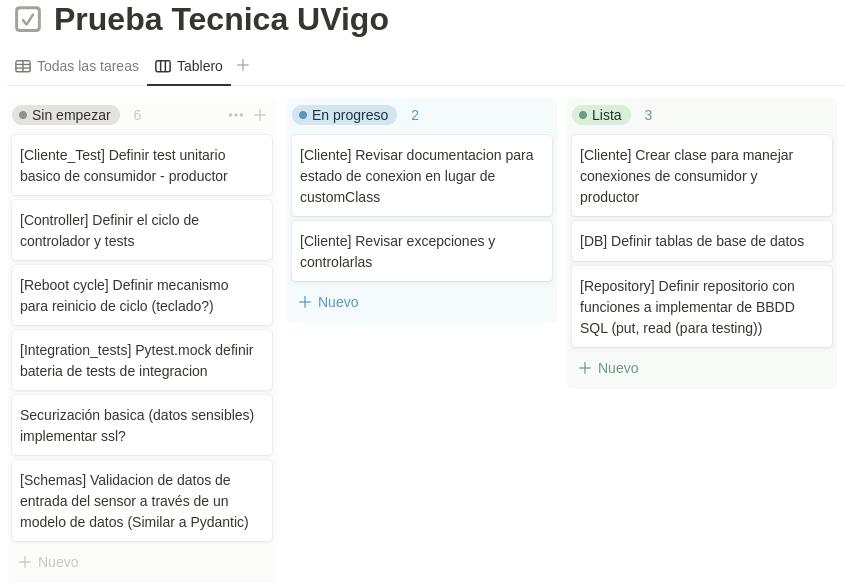
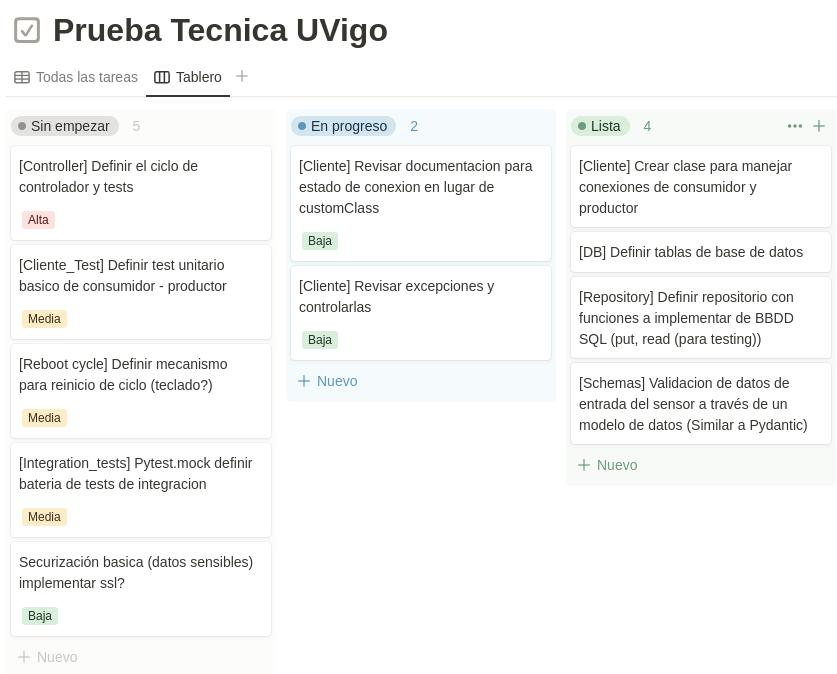
[add data validation with schemas, get id from ref on repository]

diff --git a/src/main/schemas/requests/Data_Received.py b/src/main/schemas/requests/Data_Received.py
@@ -1,0 +1,45 @@
+from typing import List
+import json 
+
+
+class Data_Received:
+
+    def __init__(self, **kwargs):
+        self.sensor_id = kwargs.get('id')
+        self.values = kwargs.get('values')
+        self.validate_fields()
+
+    def validate_fields(self):
+
+        def validate_id():
+            if not self.sensor_id or not isinstance(self.sensor_id, int):
+                raise ValueError("bad id received")
+
+        def validate_values():
+            if not self.values or not isinstance(self.values, List) or len(self.values) > 65:
+                raise ValueError("bad data format for values")
+            if False in [isinstance(value, int) for value in self.values]:
+                raise ValueError("data format invalid")
+            if list(filter(lambda value: value >= 65536, self.values)) != []: # Algun valor por encima del desborde
+                raise ValueError("bad value range")
+            
+        validate_id()
+        validate_values()
+
+    def to_string(self):
+        return json.dumps({'id': self.sensor_id, 'values': self.values})
+    
+    def model_dump(self):
+        return {'id': self.sensor_id, 'values': self.values}
+
+
+
+
+
+if __name__ == '__main__':
+    data = {
+        "values": [2,1,3],
+        "id": 1
+    }
+    new_data = Data_Received(**data).model_dump()
+    print(new_data)

diff --git a/src/main/data/MySQL_Sensor_Repository.py b/src/main/data/MySQL_Sensor_Repository.py
@@ -89,6 +89,17 @@ class MySQL_Sensor_Repository(Sensor_Repository):
         finally:
             cursor.close()
 
+    def get_sensor_id_by_ref(self, sensor_ref):
+        cursor = self.mysql_connection.cursor(dictionary=True)
+        query = ("SELECT id FROM sensors s WHERE s.ref = %s")
+        try:
+            cursor.execute(query, (sensor_ref,))
+        except Error as e:
+            self.log.error(f"SENSOR_REPO:: Error retrieving sensor identifier: {e}")
+            return None
+        results = cursor.fetchone()
+        return results.get('id')
+
 
 
 
@@ -131,3 +142,4 @@ if __name__ == '__main__':
     mysql_repository.insert_new_value(sensor_id=sensor_id, timestamp=timestamp, values_to_insert=values)
     values, total_pages = mysql_repository.get_values_by_sensor_id_pageable(sensor_id=1, page=1, values_per_page=5)
     print(values, total_pages, "size", len(values))
+    print(mysql_repository.get_sensor_id_by_ref('5286x'))

diff --git a/src/main/data/Sensor_Repository.py b/src/main/data/Sensor_Repository.py
@@ -13,3 +13,6 @@ class Sensor_Repository(ABC):
     
     @abstractmethod
     def get_all_values_pageable(self): return
+
+    @abstractmethod
+    def get_sensor_id_by_ref(self): return

diff --git a/Readme.md b/Readme.md
@@ -48,6 +48,10 @@ Se ha supuesto incierto el tiempo en que el sensor publica mensajes en el canal.
 
 Si el sensor es mockup, al iniciar el main se iniciara una instancia de un publisher que enviará mensajes al topic para ser leído por el cliente.
 
+### Informacion extraida sobre NATS
+
+Conexiones multiplexadas, un cliente se conecta a un servidor NATS, mediante el cual puede acceder a topics mediante 1 o varias suscripciones. La conexion establecida recibe mensajes y los envia a los consumidores configurados. Permite modos de persistencia, clusterización y queues para manejar multiples instancias de consumidores.
+
 ### Base de datos
 
 - Los datos del sensor en formato 16 bit sin signo de 0-65535
@@ -110,3 +114,4 @@ Si el sensor es mockup, al iniciar el main se iniciara una instancia de un publi
 
 - Se ha utilizado IA generativa para generar fragmentos de codigo y agilizar el desarrollo. La solución propuesta es propia sin intervención de chatbots
 - [Repositorio NATS provisto en el enunciado](https://github.com/nats-io/nats.py)
+- [Sistema de distribucion NATS](https://docs.nats.io/nats-concepts/core-nats/pubsub)
